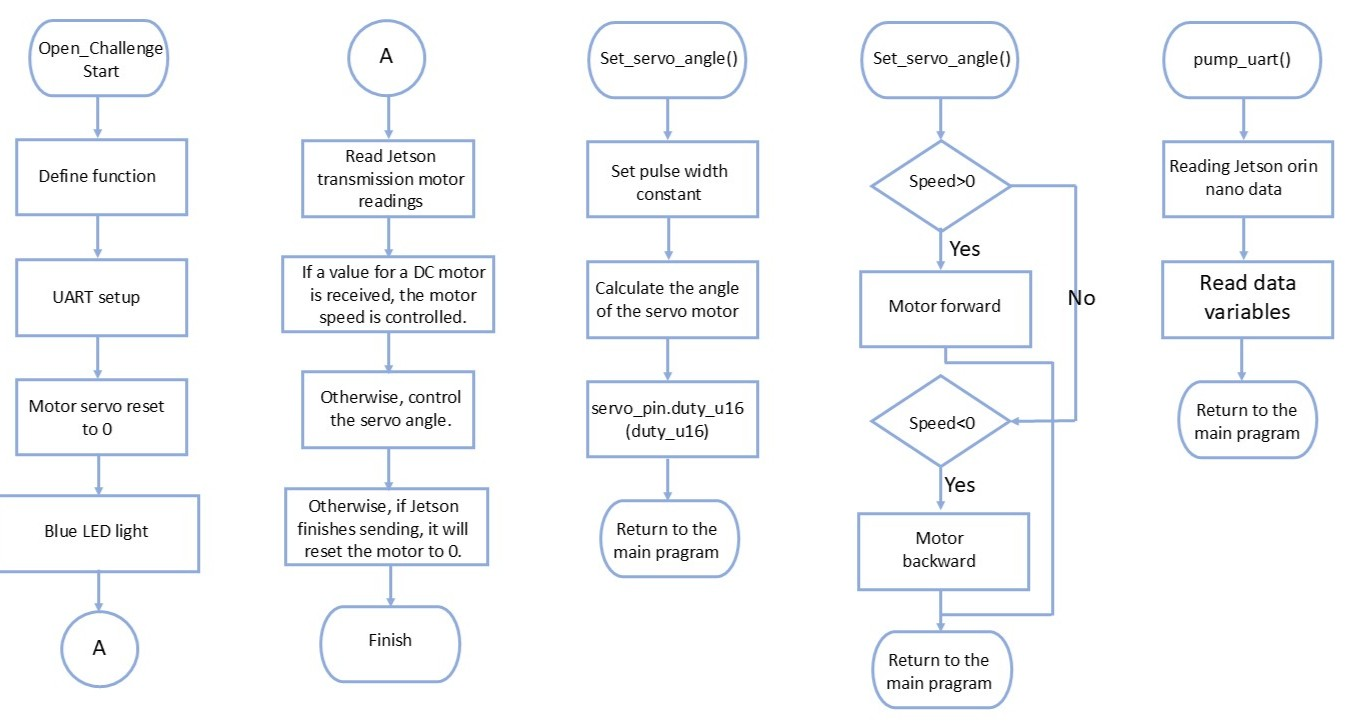
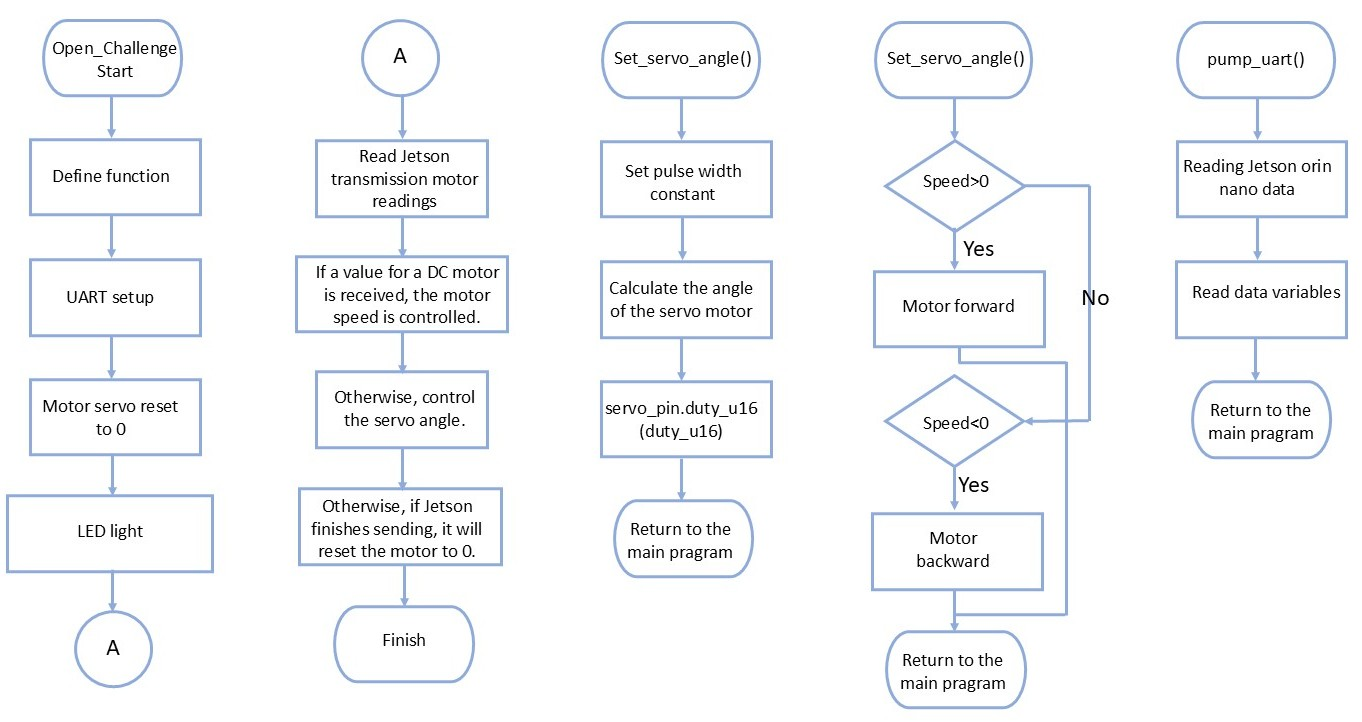
1107

diff --git a/src/Programming/Open_Challenge/README.md b/src/Programming/Open_Challenge/README.md
@@ -74,7 +74,7 @@
 
    - ##### Nvidia Jetson Orin Nano Controller Main Program Flowchart 
      ![flowchart_open](./img/open_challange_Jetson_nano.jpg)
-     ![flowchart_open](./img/Chinese_Qualifying_Tournament_Operation_Flowchart.jpg)
+
 
  - ### Raspberry Pi Pico W Open Challenge Code Overview 
    - #### Raspberry Pi Pico W Core Library / Module Program Plan for the Open Challenge 
@@ -96,7 +96,6 @@
 
       - ##### Program Operation flowchart of the Raspberry Pi Pico W controller
         ![flowchart_open](./img/open_challange_Pico.jpg)
-        ![flowchart_open](./img/Chinese_pico_operation_flowchart.jpg)
         
       - #### 1. `set_servo_angle()`: Servo Motor Angle Setting
         * **Function:** Responsible for calculating and **converting** the human-readable **angle value (typically within the $\pm 180^\circ$ range)** into the required **PWM duty cycle range (0 to 65535)** for the servo motor.
